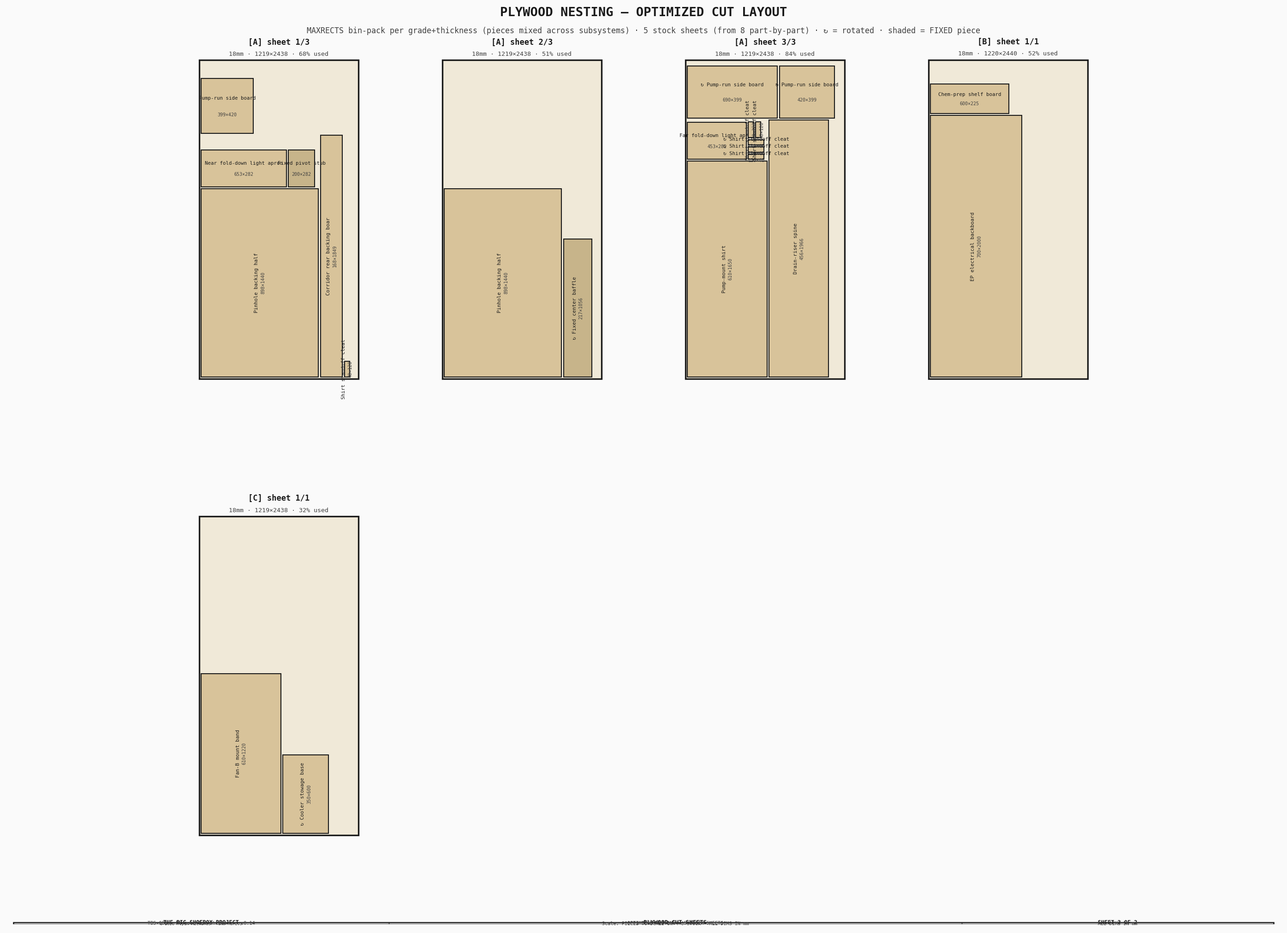
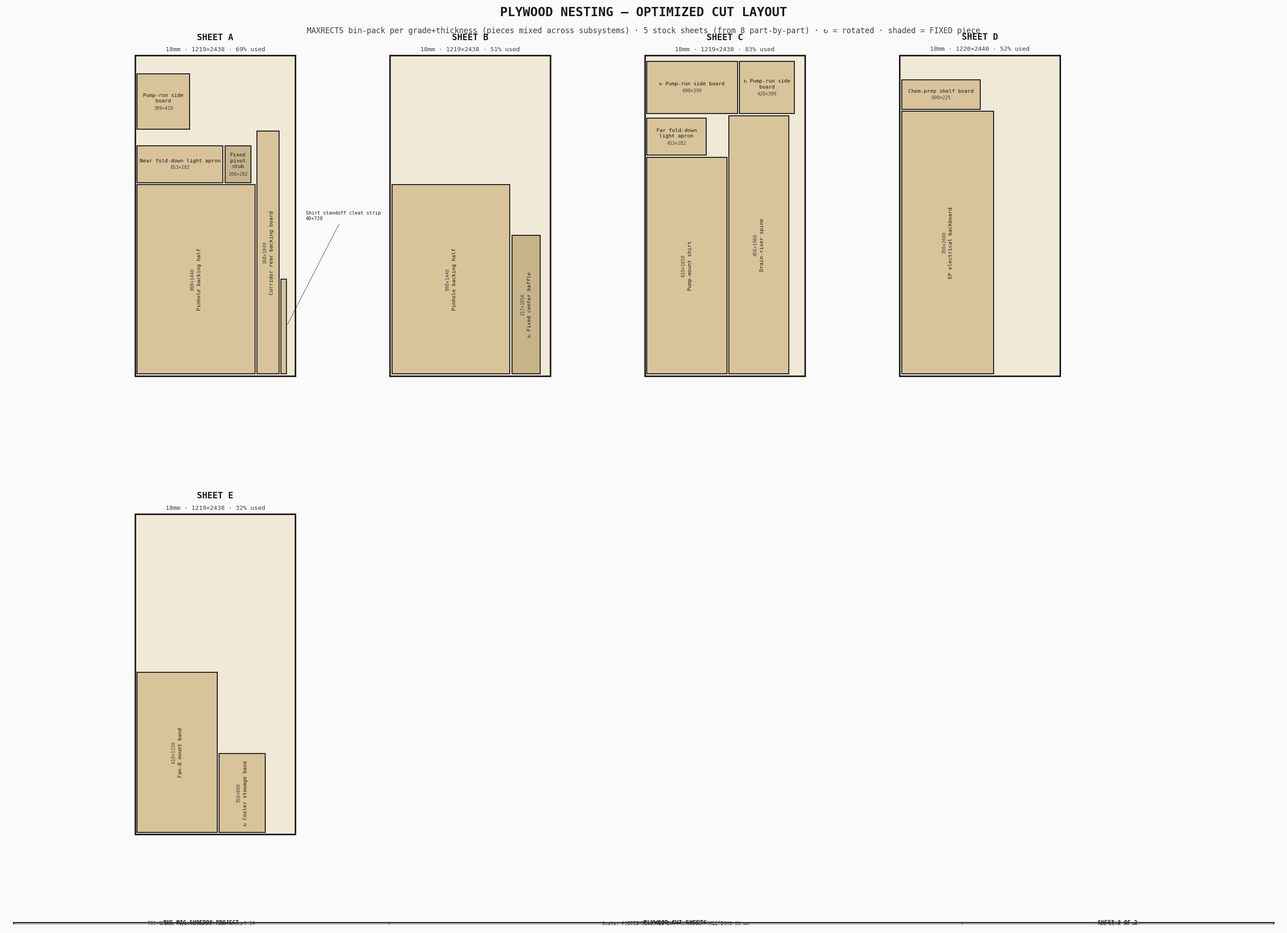
Plywood nesting: sequential sheet letters A-E, cleat strip, wrapped labels
- Physical stock sheets are lettered A-E in sequence (was [A]x3/[B]/[C]);
  the schedule SHEET column maps each cut piece to the same letter.
- Shirt standoff cleats nest as one 40x720 strip cut to 6x 120mm — simpler
  fabrication, and one leader instead of six tiny boxes.
- Nesting labels wrap to fit inside their piece (measured against the real
  text extent); a piece too small for any wrap gets a single dotted leader
  out to a right-column label (e.g. the 40mm cleat strip).
- Aligned all reader-facing 'group A/B/C' references to the sheet letters
  (grade-group letters no longer matched: PT is grade-group C but sheet E)
  across parts.py, costing.py, and the plywood/electrical/hinged reports.

diff --git a/src/generators/generate_plywood_cutsheets.py b/src/generators/generate_plywood_cutsheets.py
@@ -20,8 +20,10 @@ figures can't drift from the geometry, and the money can't drift from the regist
 """
 import os
 import sys
+import textwrap
 
 import matplotlib.pyplot as plt
+from matplotlib.font_manager import FontProperties
 from matplotlib.patches import Rectangle
 
 sys.path.insert(0, os.path.dirname(__file__))
@@ -31,7 +33,7 @@ from tbs_constants import (                                    # noqa: E402
     PANEL_FLOOR_GAP, PANEL_FLOOR_GAP_SIDE,
     PWP_PANEL_X0, PWP_PANEL_X1, SHELF_W, SHELF_DEPTH,
 )
-from tbs_drawing import draw_notes                            # noqa: E402
+from tbs_drawing import draw_notes, leader                     # noqa: E402
 from tbs_title_block import title_block                        # noqa: E402
 
 TOTAL_SHEETS = 2
@@ -70,7 +72,7 @@ GROUPS = [
         ]),
         dict(key="corridor-panel-ply-25", stock=STOCK_8x4, pieces=[
             ("Pump-mount shirt", 610, 1650, 1, "backs pumps P-01..P-05 on the corridor panel"),
-            ("Shirt standoff cleat", 40, 120, 6, "shirt-to-rear-panel standoff blocks"),
+            ("Shirt standoff cleat strip", 40, 720, 1, "one 40×720 strip, cut to 6× 120mm shirt-to-rear-panel standoff blocks"),
         ]),
         dict(key="pinhole-panel-ply-18", stock=STOCK_8x4, npieced=2, pieces=[
             ("Pinhole backing half", PINHOLE_HALF, 1440, 2, f"3× Big Blue filters + P-04/SV-02/DV-02 skid row; 2 halves butt-jointed → the full {PINHOLE_W}×1440 face (>1219 stock width)"),
@@ -209,6 +211,20 @@ _BINS = {g["gid"]: bins for g, bins in PACKED}
 NAIVE_TOTAL = sum(sum(p.get("npieced", 1) for p in g["parts"]) for g in GROUPS)
 OPT_TOTAL = sum(len(bins) for _g, bins in PACKED)
 
+# every physical stock sheet gets ONE sequential letter A, B, C… across all groups (the buyer's
+# sheet list), so the schedule and the nesting layout name the same sheet. A grade group maps to a
+# contiguous run of letters (SYP → A–C, UV-white → D, PT → E).
+_SHEET_LETTERS = {}          # gid -> [letters, one per bin]
+_gi = 0
+for _g, _bins in PACKED:
+    _SHEET_LETTERS[_g["gid"]] = [chr(ord("A") + _gi + _i) for _i in range(len(_bins))]
+    _gi += len(_bins)
+
+
+def _letter_span(gid):
+    ls = _SHEET_LETTERS[gid]
+    return ls[0] if len(ls) == 1 else f"{ls[0]}–{ls[-1]}"
+
 
 def _is_fixed(label):
     return any(k in label for k in ("Fixed", "stub", "baffle"))
@@ -248,7 +264,7 @@ def draw_sheet1():
     # columns
     CX = {"grp": 2, "piece": 8, "wh": 41, "qty": 55, "where": 60}
     HDR_Y = 91
-    ax.text(CX["grp"], HDR_Y, "GRP", fontsize=8, fontweight="bold", color=C_OUT, **FONT)
+    ax.text(CX["grp"], HDR_Y, "SHEET", fontsize=8, fontweight="bold", color=C_OUT, **FONT)
     ax.text(CX["piece"], HDR_Y, "CUT PIECE", fontsize=8, fontweight="bold", color=C_OUT, **FONT)
     ax.text(CX["wh"], HDR_Y, "W × H (mm)", fontsize=8, fontweight="bold", color=C_OUT, **FONT)
     ax.text(CX["qty"], HDR_Y, "QTY", fontsize=8, fontweight="bold", color=C_OUT, **FONT)
@@ -260,13 +276,15 @@ def draw_sheet1():
     for g in GROUPS:
         # group band
         ax.plot([1, 99], [y + 1.1, y + 1.1], color=C_DIM, lw=0.5)
-        ax.text(CX["grp"], y, g["gid"], fontsize=9, fontweight="bold", color=C_OUT, **FONT)
+        span = _letter_span(g["gid"])
+        ax.text(CX["grp"], y, span, fontsize=9, fontweight="bold", color=C_OUT, **FONT)
         opt = len(_BINS[g["gid"]])
         naive = sum(p.get("npieced", 1) for p in g["parts"])
         npieces = len(_group_pieces(g))
         saved = f"  (was {naive})" if opt < naive else ""
         ax.text(CX["piece"], y, f"{g['grade']}  ·  {g['sku']}  ·  "
-                f"{npieces} pieces → {opt}× {g['stock'][0]}×{g['stock'][1]} sheet{'s' if opt != 1 else ''}{saved}",
+                f"{npieces} pieces → sheet{'s' if opt != 1 else ''} {span} "
+                f"({opt}× {g['stock'][0]}×{g['stock'][1]}){saved}",
                 fontsize=7.4, fontweight="bold", color=C_DIM, **FONT)
         y -= ROW
         for p in g["parts"]:
@@ -299,6 +317,45 @@ def draw_sheet1():
     _save(fig, "plywood-cutsheets-sheet1.png")
 
 
+# ── Sheet-2 label helpers (measure real text extents so a label wraps to fit its box, else leads out) ──
+_LBL_FS = 5.4
+_PX_PAD = 12               # px breathing room inside a box before a label is deemed not to fit
+
+
+def _txt_wh(renderer, s, fs):
+    w, h, _dsc = renderer.get_text_width_height_descent(s, FontProperties(family="monospace", size=fs), False)
+    return w, h
+
+
+def _data_per_px(ax):
+    inv = ax.transData.inverted()
+    o = inv.transform((0, 0))
+    return abs(inv.transform((1, 0))[0] - o[0]), abs(inv.transform((0, 1))[1] - o[1])
+
+
+def _box_px(ax, x0, y0, w, h):
+    p0 = ax.transData.transform((x0, y0))
+    p1 = ax.transData.transform((x0 + w, y0 + h))
+    return abs(p1[0] - p0[0]), abs(p1[1] - p0[1])
+
+
+def _wrap_fit(renderer, label, fs, avail_line_px, avail_stack_px, extra_lines=1):
+    """Fewest-line wrap of `label` whose widest line fits `avail_line_px` and whose stack
+    (lines + extra_lines for the dims) fits `avail_stack_px`. None if it can't fit at all."""
+    aw, ah = avail_line_px - _PX_PAD, avail_stack_px - _PX_PAD
+    if aw < 14 or ah < 14:
+        return None
+    lh = _txt_wh(renderer, "Ag", fs)[1] * 1.35
+    chosen = None
+    for ncols in range(4, len(label) + 1):
+        lines = textwrap.wrap(label, ncols) or [label]
+        if max(_txt_wh(renderer, ln, fs)[0] for ln in lines) <= aw:
+            chosen = lines                                     # keep the widest (fewest-line) fit
+    if chosen is None or (len(chosen) + extra_lines) * lh > ah:
+        return None
+    return chosen
+
+
 # ═══════════════════════════════════════════════════════════════════════════════
 # SHEET 2 — OPTIMIZED NESTING (bin-packed stock sheets, pieces mixed across subsystems)
 # ═══════════════════════════════════════════════════════════════════════════════
@@ -310,46 +367,81 @@ def draw_sheet2():
     ax.set_aspect("equal")
     ax.axis("off")
 
-    # flatten PACKED to a list of (gid, thick, stock, sheet_i, n_sheets, placements)
+    # every physical sheet, in group order, with its sequential buyer letter (A, B, C…)
     sheets = []
     for g, bins in PACKED:
+        letters = _SHEET_LETTERS[g["gid"]]
         for i, pl in enumerate(bins):
-            sheets.append((g["gid"], g["thick"], g["stock"], i + 1, len(bins), pl))
+            sheets.append((letters[i], g["thick"], g["stock"], pl))
 
     COLS = 4
-    GAPX, GAPY = 640, 1050
+    GAPX, GAPY = 720, 1050
     CELLW, CELLH = 1220, 2440
-    for idx, (gid, thick, stock, si, ns, pl) in enumerate(sheets):
-        col = idx % COLS
-        row = idx // COLS
-        ox = col * (CELLW + GAPX)
-        oy = -row * (CELLH + GAPY)
+    origins = []
+    for idx in range(len(sheets)):
+        origins.append((idx % COLS * (CELLW + GAPX), -(idx // COLS) * (CELLH + GAPY)))
+
+    # 1) grounds + piece rectangles + sheet headers (labels come after limits are fixed)
+    for (letter, thick, stock, pl), (ox, oy) in zip(sheets, origins):
         w0, h0 = stock
         used = sum(w * h for (_x, _y, w, h, _l, _r) in pl)
         util = 100 * used / (w0 * h0)
         ax.add_patch(Rectangle((ox, oy), w0, h0, fc=C_STOCK, ec=C_OUT, lw=1.6, zorder=2))
-        ax.text(ox + w0 / 2, oy + h0 + 120, f"[{gid}] sheet {si}/{ns}", ha="center", fontsize=8.2,
+        ax.text(ox + w0 / 2, oy + h0 + 120, f"SHEET {letter}", ha="center", fontsize=9.0,
                 fontweight="bold", color=C_OUT, **FONT)
         ax.text(ox + w0 / 2, oy + h0 + 34, f"{thick}mm · {w0}×{h0} · {util:.0f}% used",
                 ha="center", fontsize=6.4, color=C_DIM, **FONT)
         for (x, yb, w, h, label, rot) in pl:
             fc = C_STUB if _is_fixed(label) else C_WOOD
             ax.add_patch(Rectangle((ox + x, oy + yb), w, h, fc=fc, ec=C_OUT, lw=1.0, zorder=3))
-            short = label.split(" (")[0]
-            cx, cy = ox + x + w / 2, oy + yb + h / 2
-            tag = "↻ " if rot else ""
-            if h > w * 1.5:                                    # rotate label; separate dim across width
-                ax.text(cx - 24, cy, (tag + short)[:26], ha="center", va="center", fontsize=5.2,
-                        color=C_OUT, rotation=90, **FONT)
-                ax.text(cx + 26, cy, f"{w:g}×{h:g}", ha="center", va="center", fontsize=4.8,
-                        color=C_DIM, rotation=90, **FONT)
-            else:
-                ax.text(cx, cy + max(24, h * 0.14), (tag + short)[:26], ha="center", va="center",
-                        fontsize=5.2, color=C_OUT, **FONT)
-                ax.text(cx, cy - max(30, h * 0.16), f"{w:g}×{h:g}", ha="center", va="center",
-                        fontsize=4.8, color=C_DIM, **FONT)
 
-    ax.autoscale_view()
+    # 2) fix the view so transData/renderer are valid for text measurement
+    maxx = max(ox + s[2][0] for s, (ox, oy) in zip(sheets, origins))
+    minx = min(ox for ox, oy in origins)
+    maxy = max(oy + s[2][1] for s, (ox, oy) in zip(sheets, origins))
+    miny = min(oy for ox, oy in origins)
+    ax.set_xlim(minx - 80, maxx + 780)                         # right pad holds the leader-label column
+    ax.set_ylim(miny - 300, maxy + 260)
+    fig.canvas.draw()
+    r = fig.canvas.get_renderer()
+    dpp_x, dpp_y = _data_per_px(ax)
+
+    # 3) piece labels — wrap inside the box; if it still won't fit, defer to a leader (one per piece)
+    for (letter, thick, stock, pl), (ox, oy) in zip(sheets, origins):
+        w0, h0 = stock
+        leads = []
+        for (x, yb, w, h, label, rot) in pl:
+            short = ("↻ " if rot else "") + label.split(" (")[0]
+            dims = f"{w:g}×{h:g}"
+            cx, cy = ox + x + w / 2, oy + yb + h / 2
+            bw, bh = _box_px(ax, ox + x, oy + yb, w, h)
+            rotate = h > w * 1.5
+            lines = _wrap_fit(r, short, _LBL_FS, bh if rotate else bw, bw if rotate else bh)
+            if lines is None:
+                leads.append((ox + x + w, cy, f"{short}\n{dims}"))
+                continue
+            # center the (label block + dims line) as one stack; label above, dims one line below
+            lh = _txt_wh(r, "Ag", _LBL_FS)[1] * 1.3 * (dpp_x if rotate else dpp_y)
+            n = len(lines)
+            body = "\n".join(lines)
+            lbl_off, dim_off = lh / 2, n * lh / 2               # label center up ½ line; dims center down n/2 lines
+            if rotate:
+                ax.text(cx + lbl_off, cy, body, rotation=90, ha="center", va="center",
+                        linespacing=1.3, fontsize=_LBL_FS, color=C_OUT, **FONT)
+                ax.text(cx - dim_off, cy, dims, rotation=90, ha="center", va="center",
+                        fontsize=_LBL_FS - 0.6, color=C_DIM, **FONT)
+            else:
+                ax.text(cx, cy + lbl_off, body, ha="center", va="center",
+                        linespacing=1.3, fontsize=_LBL_FS, color=C_OUT, **FONT)
+                ax.text(cx, cy - dim_off, dims, ha="center", va="center",
+                        fontsize=_LBL_FS - 0.6, color=C_DIM, **FONT)
+        # leader column down the sheet's right gap
+        lx = ox + w0 + 80
+        for i, (tipx, tipy, txt) in enumerate(leads):
+            ly = oy + h0 - 60 - (i + 0.5) * ((h0 - 120) / max(len(leads), 1))
+            leader(ax, tipx, tipy, lx, ly, txt, fs=5.0, color=C_OUT, ha="left",
+                   va="center", arrow_style="-", lw=0.6, font=FONT)
+
     ax.text(0.5, 1.006, "PLYWOOD NESTING — OPTIMIZED CUT LAYOUT", transform=ax.transAxes,
             ha="center", fontsize=13, fontweight="bold", color=C_OUT, **FONT)
     ax.text(0.5, 0.986, f"MAXRECTS bin-pack per grade+thickness (pieces mixed across subsystems) · "

diff --git a/src/generators/parts.py b/src/generators/parts.py
@@ -619,7 +619,7 @@ PARTS: list[Part] = [
               'the DC-distribution terminals (fuse block + busbars) sit in a small IP65 enclosure bolted to it. '
               'Add DIN rail + standoffs for the DIN gear. A backboard is finish-agnostic, so it is CUT FROM THE '
               'CHEM-SHELF UV-white sheet (shelf-phenolic-ply) — no separate sheet purchased (Plywood Cut Sheets, '
-              'group B). The UV-coated face is already sealed/wipeable (better than the former SANDEPLY).'),
+              'sheet D). The UV-coated face is already sealed/wipeable (better than the former SANDEPLY).'),
     Part("ip65-enclosure", "IP65 enclosure 213×213×133mm (fuse block + busbars, on the plywood)", "electrical-distribution",
          "electrical", 1, "ea", 46.93, 46.93, "Polycase", "Amazon", part_no="ZH-080804", url="https://www.polycase.com/zh-080804",
          spec='Weatherproof IP65 box bolted to the plywood backboard, sealing the DC-distribution '
@@ -1024,10 +1024,10 @@ PARTS: list[Part] = [
          spec="Fasten the HDPE surround (B2 bay walls + upper/lower floor caps + center-zone face skins) to the steel center-zone frame at the panel-plane lap — ~140 rivets over the lap edges (2 jamb lines ~35 each + cap/skin laps) → 2× 100-pack. 1/8\" (Ø3.18) 18-8 SS blind rivet, grip 0.313–0.375\", drill #30 (Ø3.3), set with a DP8010 sealant bead for light-tightness (same rivet family as the light-trap housing→frame lap, ll-rivets-housing). Hingepanel Sheet 7. $14.59/100.", note="NEW 2026-08-28 (hingepanel-bp) — surround→frame connection resolved as a blind-riveted lap; SKU shared with ll-rivets-housing"),
     Part("panel-paint", "Flat black paint (RAL 9005)", "adhesives-finishes",
          "panel", 1, "qt", 10, 20, "local", spec="Bay/weld touch-in (HDPE skins are pre-pigmented black)"),
-    Part("panel-bottom-apron", "Fold-down light aprons + fixed baffle/pivot stub (18mm ext ply, from group-A offcut) + piano hinges + foam seal + hold-up catches", "timber-ply",
+    Part("panel-bottom-apron", "Fold-down light aprons + fixed baffle/pivot stub (18mm ext ply, from the SYP sheets A–C offcut) + piano hinges + foam seal + hold-up catches", "timber-ply",
          "panel", 1, "lot", 85, 140, "Home Depot / McMaster",
-         spec="Closes the 217mm under-leaf floor gap opened by the drum-cage clearance (hingepanel Sheet 16). Two bottom-hinged fold-down aprons (near corner Yd0–653 + far corner Yd1709–2162; the far one minus a 200mm FIXED stub Yd2162–2362 that clears the Ø220 pivot mount plate) + a fixed center baffle under the drum bay. 18mm exterior SYP plywood, flat-black interior — the ~0.5 m² of ply NESTS INTO THE GROUP-A SYP OFFCUT (Plywood Cut Sheets, group A: corridor + pinhole panels), so no separate apron sheet is bought (was a dedicated 12mm sheet); this lot is the piano hinges + foam + catches. 2× continuous (piano) hinges to the threshold, closed-cell foam-strip perimeter seal, 2× over-center hold-up catches; folds flat into the container for the transport swing. HINGE-LINE seal (Sheet 16 Detail F): a fixed 3mm-steel lapping board off the sill — an exterior daylight baffle standing over the piano hinge — + a 10mm closed-cell foam strip the apron compresses when UP (knuckle inboard of the lap). Est.; lapping-board steel is an offcut, foam within the seal roll.",
-         note="NEW 2026-08-30 — fold-down light apron; 2026-09-30 re-graded 12mm→18mm to nest into the group-A SYP sheet (saves a sheet)"),
+         spec="Closes the 217mm under-leaf floor gap opened by the drum-cage clearance (hingepanel Sheet 16). Two bottom-hinged fold-down aprons (near corner Yd0–653 + far corner Yd1709–2162; the far one minus a 200mm FIXED stub Yd2162–2362 that clears the Ø220 pivot mount plate) + a fixed center baffle under the drum bay. 18mm exterior SYP plywood, flat-black interior — the ~0.5 m² of ply NESTS INTO THE SYP OFFCUT (Plywood Cut Sheets, sheets A–C: corridor + pinhole panels), so no separate apron sheet is bought (was a dedicated 12mm sheet); this lot is the piano hinges + foam + catches. 2× continuous (piano) hinges to the threshold, closed-cell foam-strip perimeter seal, 2× over-center hold-up catches; folds flat into the container for the transport swing. HINGE-LINE seal (Sheet 16 Detail F): a fixed 3mm-steel lapping board off the sill — an exterior daylight baffle standing over the piano hinge — + a 10mm closed-cell foam strip the apron compresses when UP (knuckle inboard of the lap). Est.; lapping-board steel is an offcut, foam within the seal roll.",
+         note="NEW 2026-08-30 — fold-down light apron; 2026-09-30 re-graded 12mm→18mm to nest into the SYP sheets A–C (saves a sheet)"),
     Part("panel-grab-handle", "12\" round pull handle — McMaster 1871A65 (same as the drum handle) + 1/4\" screws into rivnuts, matte-black", "fasteners-hardware",
          "panel", 1, "ea", 6.43, 6.43, "McMaster-Carr", part_no="1871A65", url="https://www.mcmaster.com/1871A65/",
          spec="Interior panel-swing pull handle (§4.3) — the SAME off-the-shelf part as the interior drum handle (ll-grab-rail): Ø12.7 bar, 12.13\" grip, 2.06\" standoff. Screws into 1/4\"-20 rivet-nuts set in the panel-frame RHS near wall — the swing load reacts into the STEEL frame, not the HDPE skin (rivnuts because the 3mm tube wall can't be tapped, and there is no back-access to a nut). Matte-black powder-coat (optically dead). $6.43 firm.", note="2026-08-28: swap the D-grab → the same 1871A65 pull handle as the drum handle; mount = rivnuts not through-bolt+backing plate"),
@@ -1035,7 +1035,7 @@ PARTS: list[Part] = [
     # ═══ shelf (§7 chem-prep) — mirrors costing.SHELF → exact $203 ═══
     Part("shelf-phenolic-ply", "UV-coated white plywood (work surface)", "timber-ply",
          "shelf", 1, '4\'×8\' 18mm sheet', 73.28, 73.28, "Home Depot", part_no="BPI6WUV2I", url="https://www.homedepot.com/p/302874373",
-         spec='Swaner 18mm × 4\'×8\' UV-coated white hardwood ply (1220×2440mm), cut to 600×225 (W×deployed depth). UV-coated face gives a sealed, wipeable work surface — substitute for the phenolic concrete-form sheet (same purpose, readily stocked). This ONE sheet ALSO yields the EP electrical backboard (ep-backing-panel, ~700×2000mm) — the two nest on the single UV-white sheet (Plywood Cut Sheets, group B), so no separate backboard sheet is bought.'),
+         spec='Swaner 18mm × 4\'×8\' UV-coated white hardwood ply (1220×2440mm), cut to 600×225 (W×deployed depth). UV-coated face gives a sealed, wipeable work surface — substitute for the phenolic concrete-form sheet (same purpose, readily stocked). This ONE sheet ALSO yields the EP electrical backboard (ep-backing-panel, ~700×2000mm) — the two nest on the single UV-white sheet (Plywood Cut Sheets, sheet D), so no separate backboard sheet is bought.'),
     # Steel perimeter frame, folding stays, M5 CSK + corner gussets REMOVED — ply-primary redesign
     # (2026-09-07, chem-shelf-blueprint-spec.md): the plywood is the structure; attachments land in
     # ply tee-nuts (1/4-20 ply-mount standard); stays are SS chain. M5 family eliminated.

diff --git a/src/generators/costing.py b/src/generators/costing.py
@@ -253,7 +253,7 @@ PANEL = [
     LineItem("1/8\" 18-8 SS blind rivets — HDPE surround → frame lap (2× 100-pack)", 29, 29, 29, "2026-08-28: surround→frame connection = blind-riveted lap + DP8010 bead; McMaster 97525A435 $14.59/100 ×2 (SKU shared with the light-trap housing→frame rivet)"),
     LineItem("Flat-black paint (RAL 9005) — bay/weld touch-in", 10, 15, 20, "local"),
     LineItem("12\" round pull handle — McMaster 1871A65 (same as drum handle) + rivnuts", 6, 6, 6, "2026-08-28: D-grab → the 1871A65 pull handle ($6.43 firm), rivnut-mounted; §4.3"),
-    LineItem("Fold-down light aprons + fixed baffle/pivot stub (18mm ext ply from group-A offcut + piano hinges + foam seal + catches)", 85, 113, 140, "2026-08-30: closes the 217mm under-leaf gap the drum-cage clearance opened (Sheet 16); 2 fold-down aprons + fixed center baffle + 200mm pivot stub. 2026-09-30: ply re-graded 12mm→18mm and nested into the group-A SYP sheet (no separate apron sheet); this lot is the hinges + foam + catches. Est."),
+    LineItem("Fold-down light aprons + fixed baffle/pivot stub (18mm ext ply from the SYP sheets A–C offcut + piano hinges + foam seal + catches)", 85, 113, 140, "2026-08-30: closes the 217mm under-leaf gap the drum-cage clearance opened (Sheet 16); 2 fold-down aprons + fixed center baffle + 200mm pivot stub. 2026-09-30: ply re-graded 12mm→18mm and nested into the SYP sheets A–C (no separate apron sheet); this lot is the hinges + foam + catches. Est."),
 ]
 
 # §6d = chemistry-prep-shelves.md §7 (fold-down chemistry prep shelf). Point estimates.

diff --git a/hinged-panel-report.md b/hinged-panel-report.md
@@ -404,7 +404,7 @@ would have fouled the tray. The 217mm floor gap is closed in the operational pos
 The 217mm gap would otherwise be a straight light path, so it is closed by **fold-down light
 aprons** (Sheet 16): two bottom-hinged 18mm exterior-ply flaps at the corner zones (the far one
 minus a 200mm fixed stub that clears the Ø220 pivot mount plate) plus a fixed center baffle under
-the drum bay. The apron ply cuts from the group-A SYP sheet ([Plywood Cut Sheets](plywood-cut-sheets.md)),
+the drum bay. The apron ply cuts from the SYP sheets A–C ([Plywood Cut Sheets](plywood-cut-sheets.md)),
 so it buys no sheet of its own. They stand up and seal in operation and fold flat into the container for the swing.
 The apron **hinge line** is light-sealed by a fixed 3mm-steel **lapping board** off the sill — an
 exterior daylight baffle standing over the piano hinge — plus a 10mm closed-cell **foam strip** the
@@ -519,7 +519,7 @@ seals) for the swinging panel, and the structural anchor for the wall-stay eyes.
 | [1/8" black HDPE sheet (48×96, ×2)](https://www.usplastic.com/catalog/item.aspx?itemid=136961&catid=705) (46684) | B2 punch-out bay — 4-wall light-tight tube (~890mm deep) around the housing; 4 walls, 2 per 4×8 sheet. 1/8" HDPE nearest stock to 4mm (weld-compatible with the HDPE housing/drum); EPDM lip cut from the panel-epdm perimeter roll (not billed here). US Plastics 46684 $123.34/sheet. | 2 sheet | US Plastics / TAP Plastics | $247 |
 | [1/8" 18-8 SS blind rivets — HDPE surround → frame lap (100-pack ×2)](https://www.mcmaster.com/97525A435/) (97525A435) | Fasten the HDPE surround (B2 bay walls + upper/lower floor caps + center-zone face skins) to the steel center-zone frame at the panel-plane lap — ~140 rivets over the lap edges (2 jamb lines ~35 each + cap/skin laps) → 2× 100-pack. 1/8" (Ø3.18) 18-8 SS blind rivet, grip 0.313–0.375", drill #30 (Ø3.3), set with a DP8010 sealant bead for light-tightness (same rivet family as the light-trap housing→frame lap, ll-rivets-housing). Hingepanel Sheet 7. $14.59/100. | 2 pack | McMaster-Carr | $29 |
 | Flat black paint (RAL 9005) | Bay/weld touch-in (HDPE skins are pre-pigmented black) | 1 qt | Local fab | $10–$20 |
-| Fold-down light aprons + fixed baffle/pivot stub (18mm ext ply, from group-A offcut) + piano hinges + foam seal + hold-up catches | Closes the 217mm under-leaf floor gap opened by the drum-cage clearance (hingepanel Sheet 16). Two bottom-hinged fold-down aprons (near corner Yd0–653 + far corner Yd1709–2162; the far one minus a 200mm FIXED stub Yd2162–2362 that clears the Ø220 pivot mount plate) + a fixed center baffle under the drum bay. 18mm exterior SYP plywood, flat-black interior — the ~0.5 m² of ply NESTS INTO THE GROUP-A SYP OFFCUT (Plywood Cut Sheets, group A: corridor + pinhole panels), so no separate apron sheet is bought (was a dedicated 12mm sheet); this lot is the piano hinges + foam + catches. 2× continuous (piano) hinges to the threshold, closed-cell foam-strip perimeter seal, 2× over-center hold-up catches; folds flat into the container for the transport swing. HINGE-LINE seal (Sheet 16 Detail F): a fixed 3mm-steel lapping board off the sill — an exterior daylight baffle standing over the piano hinge — + a 10mm closed-cell foam strip the apron compresses when UP (knuckle inboard of the lap). Est.; lapping-board steel is an offcut, foam within the seal roll. | 1 lot | Home Depot / McMaster | $85–$140 |
+| Fold-down light aprons + fixed baffle/pivot stub (18mm ext ply, from the SYP sheets A–C offcut) + piano hinges + foam seal + hold-up catches | Closes the 217mm under-leaf floor gap opened by the drum-cage clearance (hingepanel Sheet 16). Two bottom-hinged fold-down aprons (near corner Yd0–653 + far corner Yd1709–2162; the far one minus a 200mm FIXED stub Yd2162–2362 that clears the Ø220 pivot mount plate) + a fixed center baffle under the drum bay. 18mm exterior SYP plywood, flat-black interior — the ~0.5 m² of ply NESTS INTO THE SYP OFFCUT (Plywood Cut Sheets, sheets A–C: corridor + pinhole panels), so no separate apron sheet is bought (was a dedicated 12mm sheet); this lot is the piano hinges + foam + catches. 2× continuous (piano) hinges to the threshold, closed-cell foam-strip perimeter seal, 2× over-center hold-up catches; folds flat into the container for the transport swing. HINGE-LINE seal (Sheet 16 Detail F): a fixed 3mm-steel lapping board off the sill — an exterior daylight baffle standing over the piano hinge — + a 10mm closed-cell foam strip the apron compresses when UP (knuckle inboard of the lap). Est.; lapping-board steel is an offcut, foam within the seal roll. | 1 lot | Home Depot / McMaster | $85–$140 |
 | [12" round pull handle — McMaster 1871A65 (same as the drum handle) + 1/4" screws into rivnuts, matte-black](https://www.mcmaster.com/1871A65/) (1871A65) | Interior panel-swing pull handle (§4.3) — the SAME off-the-shelf part as the interior drum handle (ll-grab-rail): Ø12.7 bar, 12.13" grip, 2.06" standoff. Screws into 1/4"-20 rivet-nuts set in the panel-frame RHS near wall — the swing load reacts into the STEEL frame, not the HDPE skin (rivnuts because the 3mm tube wall can't be tapped, and there is no back-access to a nut). Matte-black powder-coat (optically dead). $6.43 firm. | 1 ea | McMaster-Carr | $6 |
 | **Panel total** | | | | **$1,314–$1,527** |
 <!-- END parts:panel -->

diff --git a/RELEASE.md b/RELEASE.md
@@ -24,7 +24,7 @@ file** — a release must not ship without a changelog entry:
 
 ## [Unreleased]
 
-- **Plywood cut sheets — one schedule + nesting layout for every subsystem.** New `plywood-cut-sheets.md` + `generate_plywood_cutsheets.py`: a single plywood registry (every `timber-ply` part — IBC-corridor plumbing panel, pump-mount shirt, pinhole-wall filter-skid backing, EP electrical backboard, Fan-B mount band, fold-down light-trap aprons, chem-prep shelf) drawn as a **schedule** (grade · thickness · stock · cut pieces · where-used · `parts.py` key) plus a **nesting layout** grouped by grade+thickness. Cut dimensions are single-sourced from `tbs_constants` where geometry-driven (pinhole panel width, apron widths/heights, chem-shelf) and spec/report literals otherwise; cost/supplier/SKU stay in `parts.py`. A **MAXRECTS bin-packer** nests all pieces of one grade+thickness onto the fewest 4×8 sheets, **mixing pieces across subsystems** — packing the whole job into **5 stock sheets** (down from 8 part-by-part). Standardizing on 18mm made the consolidation possible: the fold-down aprons were re-graded 12mm→18mm into the group-A SYP offcut, and the finish-agnostic EP electrical backboard now shares the chem-shelf UV-white sheet — so the job settles into three grades (SYP ×3, UV-white ×1, pressure-treated ×1) and drops **$78** ($68 EP + $10 apron). Gives the buyer a sheet count and the fabricator one optimized cut/nesting reference instead of an ad-hoc rectangle on each subsystem drawing. The hingepanel's duplicate Fan-B cut sheet (Sheet 11) was reworked to the band's *fabrication* detail only (fan cutout + frame-tab holes), pointing its stock/nesting to the plywood doc; the doc lives under a new **Construction** nav group.
+- **Plywood cut sheets — one schedule + nesting layout for every subsystem.** New `plywood-cut-sheets.md` + `generate_plywood_cutsheets.py`: a single plywood registry (every `timber-ply` part — IBC-corridor plumbing panel, pump-mount shirt, pinhole-wall filter-skid backing, EP electrical backboard, Fan-B mount band, fold-down light-trap aprons, chem-prep shelf) drawn as a **schedule** (grade · thickness · stock · cut pieces · where-used · `parts.py` key) plus a **nesting layout** grouped by grade+thickness. Cut dimensions are single-sourced from `tbs_constants` where geometry-driven (pinhole panel width, apron widths/heights, chem-shelf) and spec/report literals otherwise; cost/supplier/SKU stay in `parts.py`. A **MAXRECTS bin-packer** nests all pieces of one grade+thickness onto the fewest 4×8 sheets, **mixing pieces across subsystems** — packing the whole job into **5 stock sheets** (down from 8 part-by-part). Standardizing on 18mm made the consolidation possible: the fold-down aprons were re-graded 12mm→18mm into the group-A SYP offcut, and the finish-agnostic EP electrical backboard now shares the chem-shelf UV-white sheet — so the job settles into three grades (SYP ×3, UV-white ×1, pressure-treated ×1) and drops **$78** ($68 EP + $10 apron). The five physical sheets are lettered **A–E** in sequence (the schedule's SHEET column maps each cut piece to the same letter); the shirt standoff cleats nest as one 40×720 strip cut to 6× 120mm (simpler fab); and nesting labels wrap inside their piece, falling back to a single leader when a piece is too small (e.g. the cleat strip). Gives the buyer a sheet count and the fabricator one optimized cut/nesting reference instead of an ad-hoc rectangle on each subsystem drawing. The hingepanel's duplicate Fan-B cut sheet (Sheet 11) was reworked to the band's *fabrication* detail only (fan cutout + frame-tab holes), pointing its stock/nesting to the plywood doc; the doc lives under a new **Construction** nav group.
 - **`tidy_labels.py` — three new static label checks** (from a review of the recurring hand "Tidy labels" edits): a **P9 legibility floor** (flag any `fs`/`fontsize`/`title_fs` literal below 4.0 on a label helper); a **notes missing-comma** guard (adjacent string literals in a `draw_notes([...])` list that would concatenate with no separating space — the silent P8 r47 bug, space-aware so intentional line-split items don't false-flag); and a **widened archaeology** flag (adds `relocated` / `(was …)` / `(moved …)` / `formerly`). All flag-only. A render-based text-on-fill/bbox check was evaluated and **rejected** — the house convention rarely bboxes on-fill labels (~6 of 310 in hingepanel), so it flagged ~50/generator (noise, not signal).
 
 ## [0.14] — 2026-09-30

diff --git a/plywood-cut-sheets.md b/plywood-cut-sheets.md
@@ -30,34 +30,37 @@ Every plywood cut piece, grouped by stock. The ᴰ marker flags a dimension deri
 
 A MAXRECTS bin-packer nests all pieces of one grade+thickness onto the fewest 4×8 sheets, **mixing
 pieces across subsystems** (e.g. the corridor panel, pump-mount shirt, pinhole-wall backing, and the
-fold-down aprons all share Group A's Southern-Yellow-Pine sheets). This packs the whole job into
-**5 stock sheets** — down from 8 if each part were cut on its own sheet. Standardizing the timber
-plywood on 18mm made this possible: the fold-down aprons were re-graded from a dedicated 12mm sheet
-into the Group-A SYP offcut, and the EP electrical backboard — a finish-agnostic backing surface —
-now shares the chem-shelf UV-white sheet, so the whole job settles into three grades (SYP, UV-white,
-pressure-treated). Pieces are drawn to scale; ↻ marks a piece rotated 90° to fit, and shaded pieces
-are fixed (non-fold). The shelf layout is a nesting guide — the shop lays out the actual saw cuts from
+fold-down aprons all share the Southern-Yellow-Pine sheets A–C). This packs the whole job into
+**5 stock sheets, lettered A–E** — down from 8 if each part were cut on its own sheet. Standardizing the
+timber plywood on 18mm made this possible: the fold-down aprons were re-graded from a dedicated 12mm sheet
+into the SYP offcut (sheets A–C), and the EP electrical backboard — a finish-agnostic backing surface —
+now shares the chem-shelf UV-white sheet (sheet D), so the whole job settles into three grades (SYP,
+UV-white, pressure-treated). Pieces are drawn to scale; ↻ marks a piece rotated 90° to fit, and shaded
+pieces are fixed (non-fold). The layout is a nesting guide — the shop lays out the actual saw cuts from
 the labeled dimensions.
 
 ![Plywood nesting](assets/plywood-cutsheets-sheet2.png)
 
-## 4. Stock groups
+## 4. Stock sheets
 
-| Group | Thickness | Grade | Parts | Stock sheets |
-|---|---|---|---|---|
-| A | 18mm (23/32") | RTD Southern Yellow Pine exterior sheathing | corridor plumbing panel, pump-mount shirt, pinhole-wall backing, fold-down light aprons + baffle + pivot stub | 3 |
-| B | 18mm | UV-coated white hardwood (Swaner) | chem-prep shelf board + EP electrical backboard | 1 |
-| C | 18mm (¾") | CC pressure-treated pine | Fan-B mount band + cooler stowage base | 1 |
-| | | | **Total** | **5** |
+The five sheets are lettered **A–E** in the nesting layout; the schedule's SHEET column maps each cut
+piece to the same letters.
 
-Group A's parts share one SKU, so the packer nests them together across subsystems (the pinhole-wall
+| Sheets | Thickness | Grade | Parts |
+|---|---|---|---|
+| A–C | 18mm (23/32") | RTD Southern Yellow Pine exterior sheathing | corridor plumbing panel, pump-mount shirt, pinhole-wall backing, fold-down light aprons + baffle + pivot stub |
+| D | 18mm | UV-coated white hardwood (Swaner) | chem-prep shelf board + EP electrical backboard |
+| E | 18mm (¾") | CC pressure-treated pine | Fan-B mount band + cooler stowage base |
+| | | **Total** | **5 sheets** |
+
+Sheets A–C are one SKU, so the packer nests their parts together across subsystems (the pinhole-wall
 backing exceeds a single sheet's width, so it is cut as two butt-jointed halves; the fold-down aprons
-drop into the offcut). Group B's one UV-white sheet yields both the chem-prep work surface and the EP
+drop into the offcut). Sheet D's UV-white stock yields both the chem-prep work surface and the EP
 electrical backboard — the backboard needs only a sealed, wipeable face, which the UV coating already
-gives, so it rides the same sheet rather than buying its own. The pressure-treated Group-C sheet also
-yields the evap-cooler stowage base. Groups B and C are single-grade (different material/finish from
-Group A and from each other), so they cannot cross-nest — that residual sheet-count is set by the grade
-split, not packing efficiency. Standard exterior grade throughout except the UV-coated Group-B surface
+gives, so it rides the same sheet rather than buying its own. The pressure-treated sheet E also
+yields the evap-cooler stowage base. Sheets D and E are single-grade (different material/finish from
+A–C and from each other), so they cannot cross-nest — that residual sheet-count is set by the grade
+split, not packing efficiency. Standard exterior grade throughout except the UV-coated sheet-D surface
 — no marine ply, since no plywood part carries a water-immersion load.
 
 ## 5. Source references

diff --git a/chemistry-prep-shelves.md b/chemistry-prep-shelves.md
@@ -196,7 +196,7 @@ shelf is only down while mixing. Folded up, the walkway is fully clear in both d
 <!-- BEGIN parts:shelf -->
 | Item | Spec | Qty | Supplier | Est. cost |
 |------|------|-----|----------|-----------|
-| [UV-coated white plywood (work surface)](https://www.homedepot.com/p/302874373) (BPI6WUV2I) | Swaner 18mm × 4'×8' UV-coated white hardwood ply (1220×2440mm), cut to 600×225 (W×deployed depth). UV-coated face gives a sealed, wipeable work surface — substitute for the phenolic concrete-form sheet (same purpose, readily stocked). This ONE sheet ALSO yields the EP electrical backboard (ep-backing-panel, ~700×2000mm) — the two nest on the single UV-white sheet (Plywood Cut Sheets, group B), so no separate backboard sheet is bought. | 1 4'×8' 18mm sheet | Home Depot | $73 |
+| [UV-coated white plywood (work surface)](https://www.homedepot.com/p/302874373) (BPI6WUV2I) | Swaner 18mm × 4'×8' UV-coated white hardwood ply (1220×2440mm), cut to 600×225 (W×deployed depth). UV-coated face gives a sealed, wipeable work surface — substitute for the phenolic concrete-form sheet (same purpose, readily stocked). This ONE sheet ALSO yields the EP electrical backboard (ep-backing-panel, ~700×2000mm) — the two nest on the single UV-white sheet (Plywood Cut Sheets, sheet D), so no separate backboard sheet is bought. | 1 4'×8' 18mm sheet | Home Depot | $73 |
 | [Extra-clearance continuous (piano) hinge, 600 mm, SS](https://www.mcmaster.com/14835A77-14835A33/) (14835A77) | 304 SS extra-clearance continuous hinge, 76.2mm open / 38.1mm leaf, Ø10.16mm barrel, 0.075in thick (14835A33 datasheet), 3ft stock cut to 600, supplied BLANK (undrilled) — drill both leaves to the 150mm pitch (4 bolts), the row 25mm off the edge (mid-leaf) so the hinge, the ply tee-nuts and the cleat all align. The 3in-open leaf lets the tee-nut row sit at a full 25mm ply edge distance (flange fully on-board). Shelf leaf 1/4-20 SS machine-screwed (pan/truss head) into the ply tee-nut row; wall leaf tapped 1/4-20 into the 6mm cleat. $55.58/3ft (14835A77) — upsized from the 1in-open 1582A457 so the plywood tee-nut gets real edge distance. | 1 ea | McMaster-Carr | $56 |
 | [304 SS chain — 2 tension stays](https://www.mcmaster.com/3392T51-3392T512/) (3392T51) | 304 SS ~4mm chain, 2 tension stays (front corner → wall anchor ~230mm above the hinge), ~1m used of the 3ft; trimmed to set the deployed level. WLL >> the ~91N tension demand (chem_shelf_load.py SF 5.4). $23.79/3ft. | 1 3ft | McMaster-Carr | $24 |
 | [1/4"-20 SS eye bolt — shelf front-corner chain anchor](https://www.mcmaster.com/3014T45/) (3014T45) | 304 SS 1/4-20 eye bolt into a ply tee-nut at each front corner (~1in shank; tip protrudes ~7mm through the 18mm top — cap/grind at the corner). Chain hooks to the eye. $4.16 ea. | 2 ea | McMaster-Carr | $8 |

diff --git a/electrical-report.md b/electrical-report.md
@@ -221,7 +221,7 @@ The switches are positioned near the electrical panel, accessible from the near 
 ## 7. Wiring Specification
 
 ### 7.1 Main Panel (Plywood Backboard + IP65 Enclosure)
-An **18mm plywood backing panel** (~700 × 2000mm) on the interior pinhole-wall face is the mounting surface every component fixes to. It is a finish-agnostic backboard, so it is cut from the chem-shelf UV-white sheet rather than buying its own — see [Plywood Cut Sheets](plywood-cut-sheets.md) (group B); the UV-coated face is already sealed and wipeable. The DC-distribution terminals (fuse block + busbars + charge-line fuse) sit in a small **IP65 weatherproof enclosure** bolted to the plywood (its back panel is the plywood), sealing them against splash/dust from the water system; the MPPT, main disconnect, battery bank and inverter mount on the plywood outside it. It carries:
+An **18mm plywood backing panel** (~700 × 2000mm) on the interior pinhole-wall face is the mounting surface every component fixes to. It is a finish-agnostic backboard, so it is cut from the chem-shelf UV-white sheet rather than buying its own — see [Plywood Cut Sheets](plywood-cut-sheets.md) (sheet D); the UV-coated face is already sealed and wipeable. The DC-distribution terminals (fuse block + busbars + charge-line fuse) sit in a small **IP65 weatherproof enclosure** bolted to the plywood (its back panel is the plywood), sealing them against splash/dust from the water system; the MPPT, main disconnect, battery bank and inverter mount on the plywood outside it. It carries:
 
 - Victron MPPT controller — on its own forward sub-panel, clear of the fuse-stack risers
 - **PV array disconnect** — DC load-break isolator in the PV path (array → MPPT), wired in-line on the panel (NEC 690.13)
@@ -405,7 +405,7 @@ All US/SoCal sources. Prices approximate as of 2026.
 | Deutsch DT connectors | DT 2-pin, 10 sets | Waytek Wire | ~$30 |
 | Cable trunking | 40 × 25mm PVC, 5m lengths × 4 | Lowe's / McMaster-Carr | ~$40 |
 | Corrugated conduit | Gray, 10mm ID, 10m | McMaster-Carr 7828K48 | ~$30 |
-| EP plywood backing panel | 18mm UV-white, ~700×2000mm — cut from the chem-shelf sheet ([Plywood Cut Sheets](plywood-cut-sheets.md), group B) | shared, no separate sheet | $0 |
+| EP plywood backing panel | 18mm UV-white, ~700×2000mm — cut from the chem-shelf sheet ([Plywood Cut Sheets](plywood-cut-sheets.md), sheet D) | shared, no separate sheet | $0 |
 | IP65 enclosure | ~200×220×140mm (fuse block + busbars) | Polycase / Amazon | ~$60 |
 | Brady label kit | M210 with wire label cartridge | McMaster-Carr / Amazon | ~$80 |
 | NEMA 5-15R inlet | Weatherproof outlet box | Leviton / Amazon | ~$25 |

diff --git a/master-shopping-list.md b/master-shopping-list.md
@@ -454,7 +454,7 @@ indicative low–high estimates — get quotes before ordering.
 |------|-----|----------|---------|-----------|
 | [Corridor plumbing-panel ply (23/32" exterior)](https://www.homedepot.com/p/23-32-in-x-4-ft-x-8-ft-RTD-Southern-Yellow-Pine-Wood-Sheathing-Plywood-129323/303564747) (303564747) | 1 sheet | Home Depot | water | $29 |
 | [EP plywood backing panel (18mm, ~700×2000mm)](https://www.homedepot.com/p/302874373) (302874373) | 1 cut from the shelf sheet | shared (Plywood Cut Sheets) | electrical | $0 |
-| Fold-down light aprons + fixed baffle/pivot stub (18mm ext ply, from group-A offcut) + piano hinges + foam seal + hold-up catches | 1 lot | Home Depot / McMaster | panel | $85–$140 |
+| Fold-down light aprons + fixed baffle/pivot stub (18mm ext ply, from the SYP sheets A–C offcut) + piano hinges + foam seal + hold-up catches | 1 lot | Home Depot / McMaster | panel | $85–$140 |
 | [Pinhole-wall filter-skid backing ply (23/32" exterior)](https://www.homedepot.com/p/23-32-in-x-4-ft-x-8-ft-RTD-Southern-Yellow-Pine-Wood-Sheathing-Plywood-129323/303564747) (303564747) | 2 sheet | Home Depot | water | $59 |
 | [Pressure-treated pine plywood (Fan B mount band + cooler base)](https://www.homedepot.com/p/206343229) (231428) | 1 4'×8' ¾" sheet | Home Depot | panel | $70 |
 | [Pump-mount shirt ply (23/32" exterior)](https://www.homedepot.com/p/23-32-in-x-4-ft-x-8-ft-RTD-Southern-Yellow-Pine-Wood-Sheathing-Plywood-129323/303564747) (303564747) | 1 sheet | Home Depot | water | $29 |
